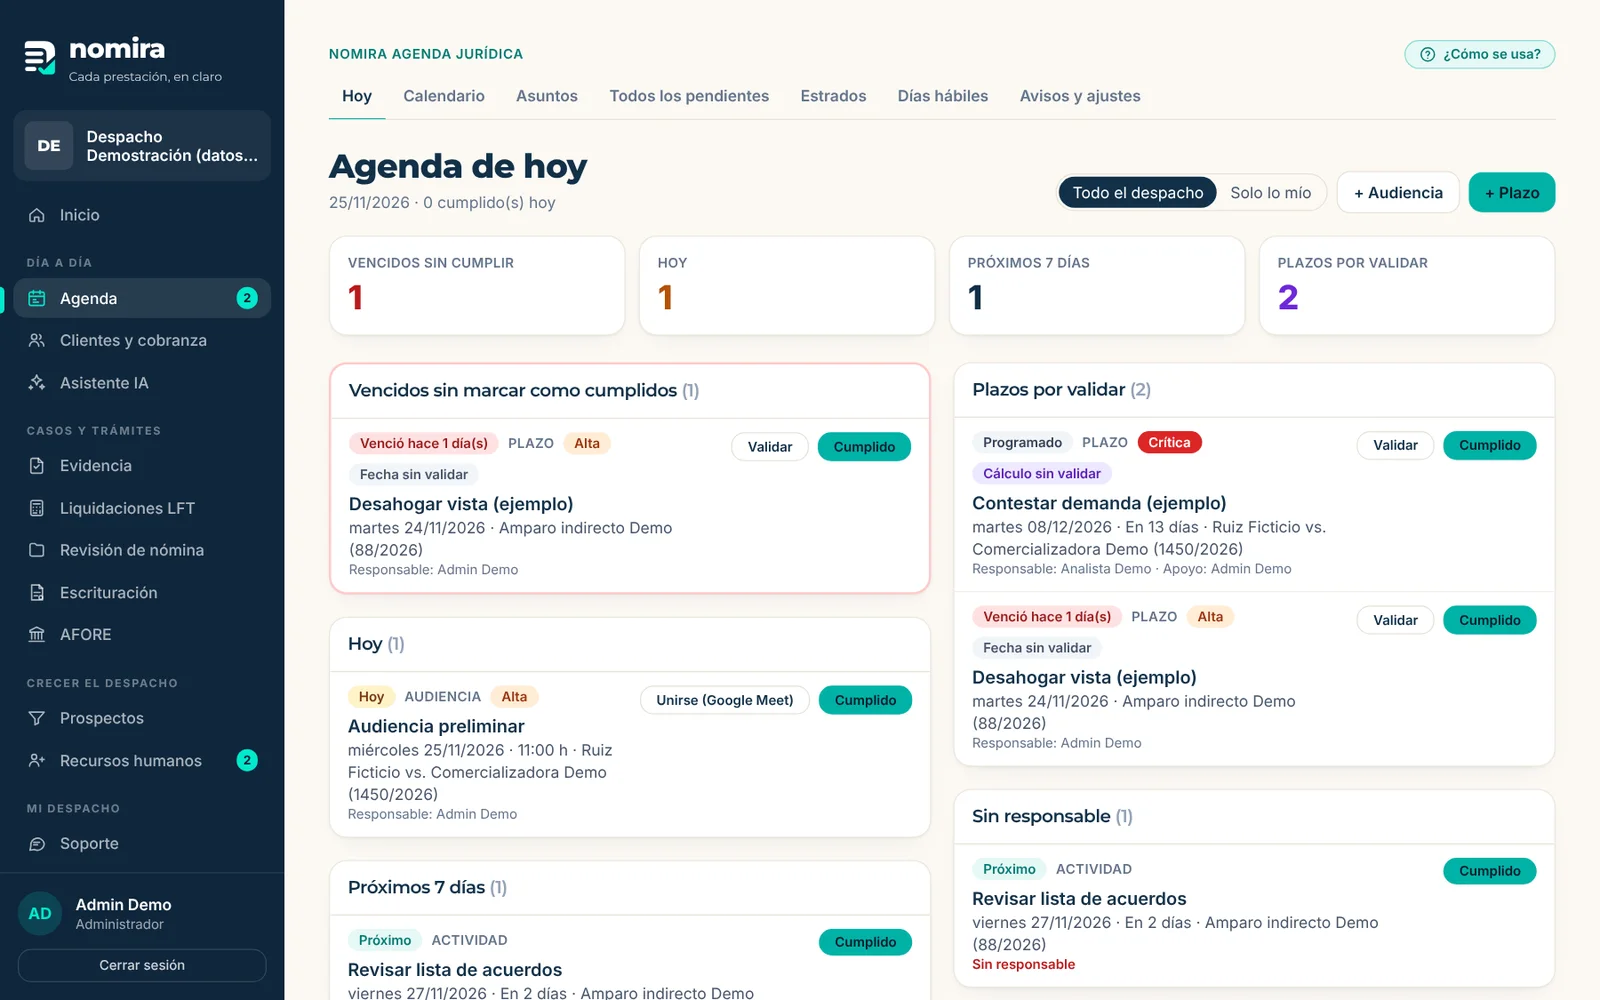
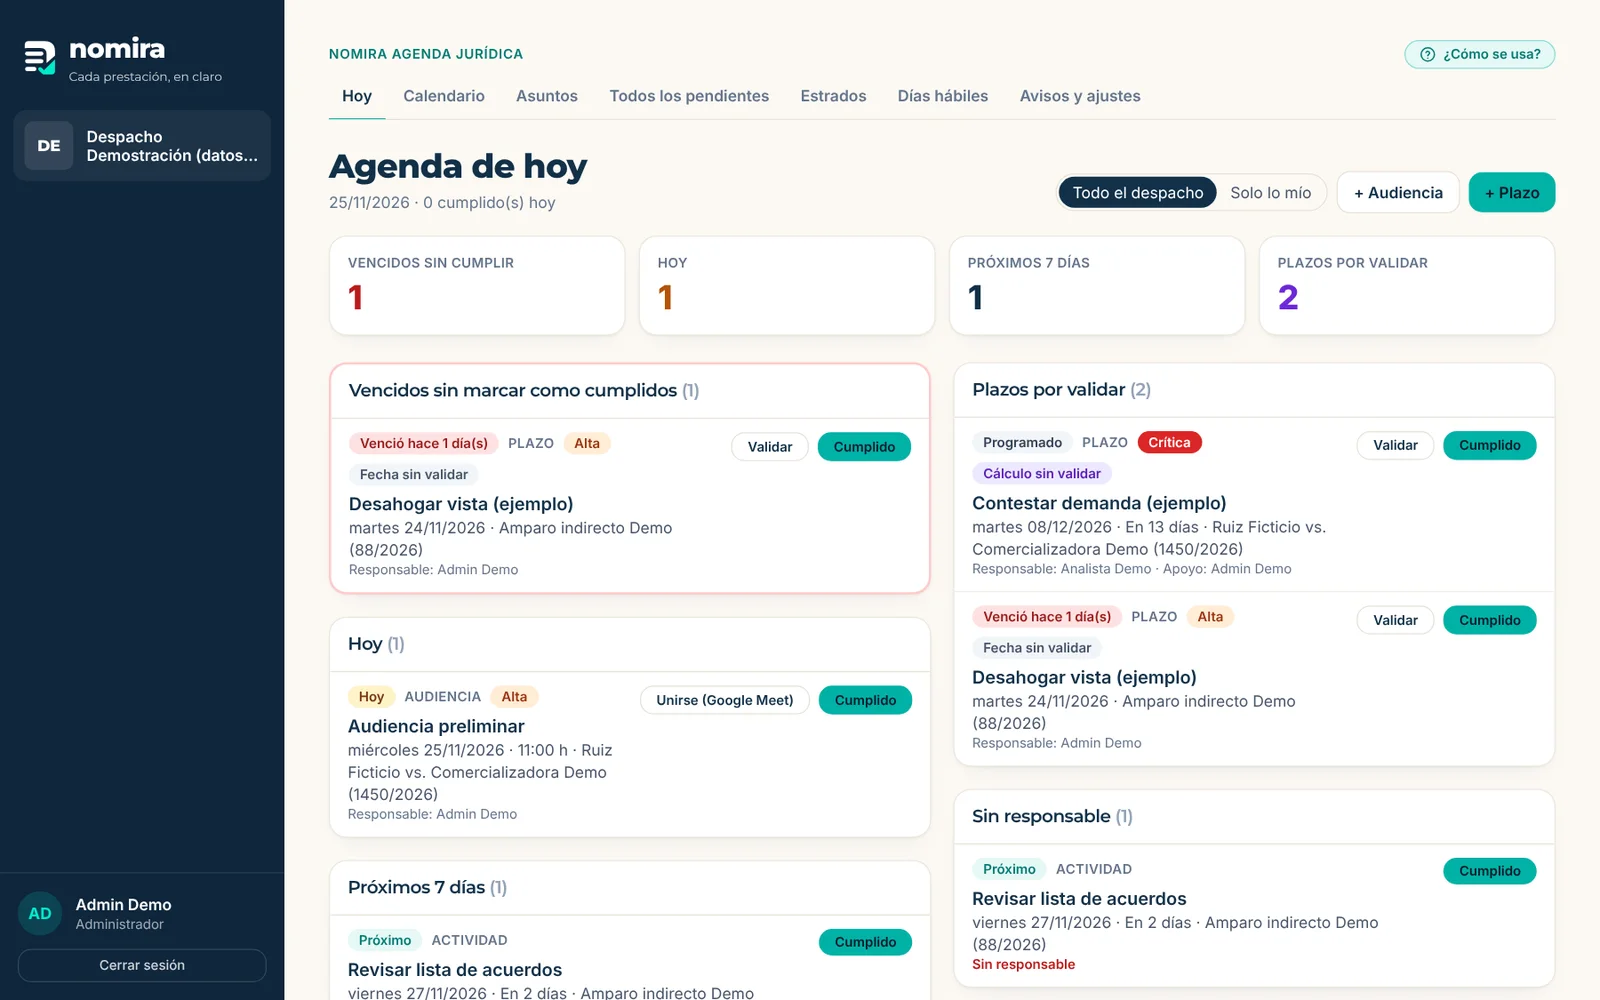
Sitio: contraste en modo oscuro y capturas que no muestran todo el sistema
- Modo oscuro: textos de la tabla comparativa, botones turquesa, recuadro
  «Incluido en todos los planes» y otros con poco contraste ahora se leen bien.
- Capturas de la portada y de los módulos sin el menú completo ni la lista de
  «Mis módulos», para no exhibir toda la plataforma.

Claude-Session: https://claude.ai/code/session_01V8PEaJEeWmXonqrhz5sdU9

diff --git a/frontend/components/SitioPublico.tsx b/frontend/components/SitioPublico.tsx
@@ -359,7 +359,7 @@ export default function SitioPublico() {
                 <p className="text-sm font-bold uppercase tracking-wide text-turquesa-brillante">Con Nomira</p>
                 <div className="mt-4 rounded-2xl bg-white p-4 text-marino" aria-label="Ejemplo de búsqueda de tesis en Nomira">
                   <div className="flex gap-2"><div className="flex-1 rounded-lg border border-crema-300 px-3 py-2 text-sm text-slate-500">suspensión clausura establecimiento</div>
-                    <span className="rounded-lg bg-turquesa px-3 py-2 text-sm font-bold text-white">Buscar</span></div>
+                    <span className="rounded-lg bg-turquesa px-3 py-2 text-sm font-bold text-marino-900">Buscar</span></div>
                   <div className="mt-2 flex flex-wrap gap-1.5 text-[11px] font-semibold">
                     {["Jurisprudencia", "Materia: Común", "Órgano: Segunda Sala", "Desde 2021"].map((t) => <span key={t} className="rounded-full bg-turquesa-50 px-2.5 py-1 text-turquesa-700">{t}</span>)}</div>
                   <div className="mt-3 rounded-xl border border-crema-300 p-3">
@@ -447,7 +447,7 @@ export default function SitioPublico() {
                 ] as [string, boolean, boolean][]).map(([t, a, b]) => (
                   <tr key={t} className="border-b border-crema-200 last:border-0">
                     <td className="p-4 font-medium text-slate-700">{t}</td>
-                    <td className="p-4 text-center">{a ? <span className="inline-flex text-slate-400"><Palomita className="h-4 w-4" /></span> : <span className="text-slate-300" aria-label="No">—</span>}</td>
+                    <td className="p-4 text-center">{a ? <span className="inline-flex text-slate-400"><Palomita className="h-4 w-4" /></span> : <span className="text-slate-400" aria-label="No">—</span>}</td>
                     <td className="p-4 text-center">{b && <span className="inline-flex h-7 w-7 items-center justify-center rounded-full bg-turquesa text-marino-900"><Palomita className="h-4 w-4" /></span>}</td>
                   </tr>))}</tbody>
               </table>

diff --git a/frontend/app/globals.css b/frontend/app/globals.css
@@ -152,3 +152,14 @@ html.s-tema-oscuro .s-sitio .s-malla { background:
 html.s-tema-oscuro .s-sitio .bg-slate-100 { background-color: #0A1A29; }
 html.s-tema-oscuro .s-sitio .from-white { --tw-gradient-from: #0D2133 var(--tw-gradient-from-position); --tw-gradient-to: rgb(13 33 51 / 0) var(--tw-gradient-to-position); --tw-gradient-stops: var(--tw-gradient-from), var(--tw-gradient-to); }
 html.s-tema-oscuro .s-sitio .to-white { --tw-gradient-to: #0D2133 var(--tw-gradient-to-position); }
+/* Modo oscuro: textos y bordes que quedaban sin contraste (tabla comparativa y otros) */
+html.s-tema-oscuro .s-sitio .text-slate-700 { color: #D5DFE9; }
+html.s-tema-oscuro .s-sitio .text-slate-400 { color: #94A3B8; }
+html.s-tema-oscuro .s-sitio .text-slate-300 { color: #64748B; }
+html.s-tema-oscuro .s-sitio .border-crema-200 { border-color: rgba(255, 255, 255, .07); }
+html.s-tema-oscuro .s-sitio .bg-red-50 { background-color: rgba(239, 68, 68, .14); }
+html.s-tema-oscuro .s-sitio .text-red-600 { color: #FCA5A5; }
+html.s-tema-oscuro .s-sitio .text-emerald-800 { color: #6EE7B7; }
+html.s-tema-oscuro .s-sitio .bg-slate-100 .bg-white { background-color: #12283C; }
+html.s-tema-oscuro .s-sitio :is(.btn-turquesa, .bg-turquesa.text-marino-900) { color: #0A1B2B; }
+html.s-tema-oscuro .s-sitio .from-turquesa-50 { --tw-gradient-from: rgba(1, 178, 166, .14) var(--tw-gradient-from-position); --tw-gradient-to: rgb(13 33 51 / 0) var(--tw-gradient-to-position); --tw-gradient-stops: var(--tw-gradient-from), var(--tw-gradient-to); }
